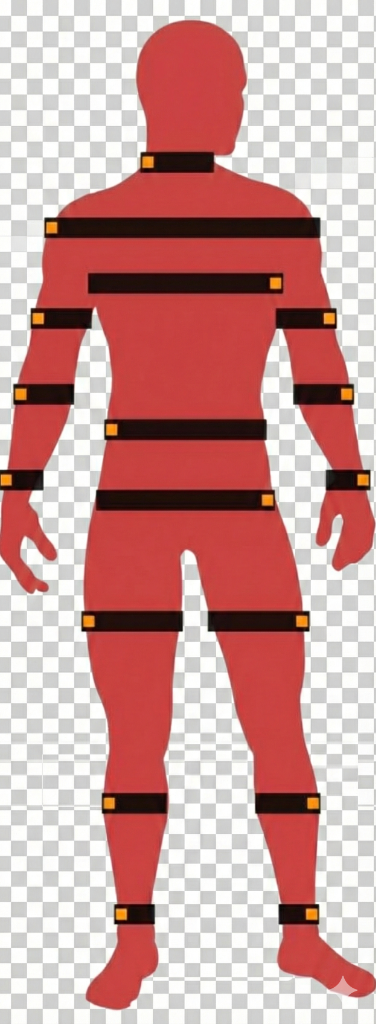
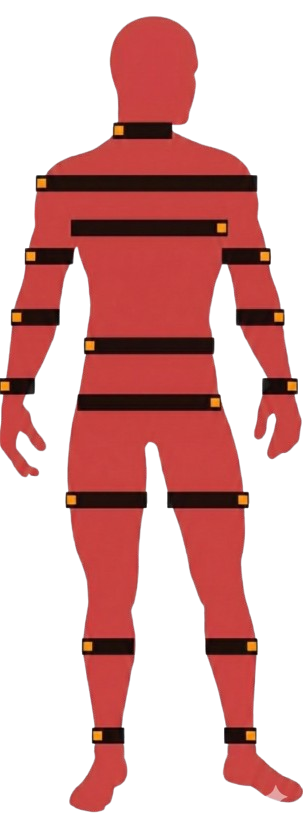
style: use the latest silhouette image and refine connector alignments

diff --git a/src/components/DynamicSilhouette.tsx b/src/components/DynamicSilhouette.tsx
@@ -33,43 +33,43 @@ export const DynamicSilhouette = ({ measurements }: Props) => {
         {/* Invisible anchors for MeasurementForm connectors */}
         <g className="hud-overlays" style={{ opacity: 0 }}>
           {/* Neck */}
-          <rect id="junction-neck" x="75" y="75" width="5" height="5" />
+          <rect id="junction-neck" x="80" y="52" width="5" height="5" />
 
           {/* Shoulders */}
-          <rect id="junction-back" x="25" y="115" width="5" height="5" />
+          <rect id="junction-back" x="28" y="80" width="5" height="5" />
 
           {/* Pecho */}
-          <rect id="junction-pecho" x="145" y="145" width="5" height="5" />
+          <rect id="junction-pecho" x="142" y="112" width="5" height="5" />
 
           {/* Arms */}
-          <rect id="junction-arm-right" x="165" y="200" width="5" height="5" />
-          <rect id="junction-arm-left" x="30" y="200" width="5" height="5" />
+          <rect id="junction-arm-right" x="172" y="152" width="5" height="5" />
+          <rect id="junction-arm-left" x="22" y="152" width="5" height="5" />
 
           {/* Waist */}
-          <rect id="junction-waist" x="55" y="255" width="5" height="5" />
+          <rect id="junction-waist" x="60" y="210" width="5" height="5" />
 
           {/* Forearms */}
-          <rect id="junction-forearm-right" x="175" y="295" width="5" height="5" />
-          <rect id="junction-forearm-left" x="20" y="295" width="5" height="5" />
+          <rect id="junction-forearm-right" x="180" y="255" width="5" height="5" />
+          <rect id="junction-forearm-left" x="15" y="255" width="5" height="5" />
 
           {/* Hips */}
-          <rect id="junction-hips" x="145" y="325" width="5" height="5" />
+          <rect id="junction-hips" x="140" y="275" width="5" height="5" />
 
           {/* Wrists */}
-          <rect id="junction-wrist-right" x="185" y="375" width="5" height="5" />
-          <rect id="junction-wrist-left" x="10" y="375" width="5" height="5" />
+          <rect id="junction-wrist-right" x="190" y="325" width="5" height="5" />
+          <rect id="junction-wrist-left" x="5" y="325" width="5" height="5" />
 
           {/* Thighs */}
-          <rect id="junction-thigh-right" x="155" y="440" width="5" height="5" />
-          <rect id="junction-thigh-left" x="40" y="440" width="5" height="5" />
+          <rect id="junction-thigh-right" x="158" y="395" width="5" height="5" />
+          <rect id="junction-thigh-left" x="42" y="395" width="5" height="5" />
 
           {/* Calf */}
-          <rect id="junction-calf-right" x="155" y="520" width="5" height="5" />
-          <rect id="junction-calf-left" x="40" y="520" width="5" height="5" />
+          <rect id="junction-calf-right" x="162" y="520" width="5" height="5" />
+          <rect id="junction-calf-left" x="52" y="520" width="5" height="5" />
 
           {/* Ankle */}
-          <rect id="junction-ankle-right" x="155" y="600" width="5" height="5" />
-          <rect id="junction-ankle-left" x="40" y="600" width="5" height="5" />
+          <rect id="junction-ankle-right" x="155" y="590" width="5" height="5" />
+          <rect id="junction-ankle-left" x="65" y="590" width="5" height="5" />
         </g>
       </svg>
 
